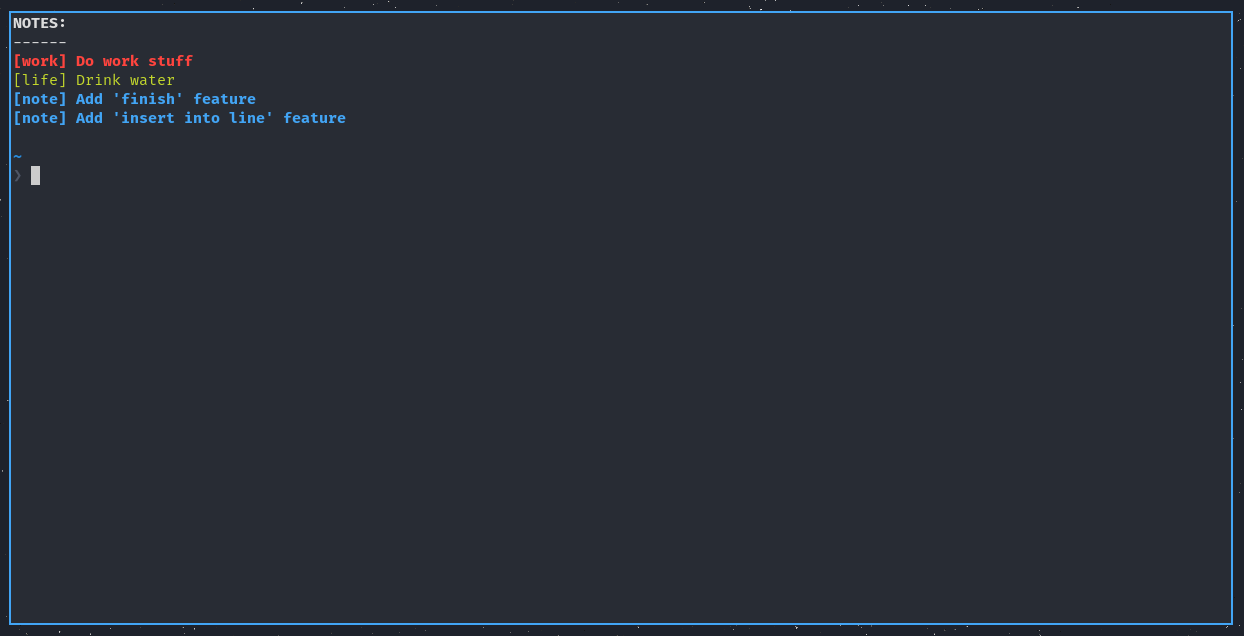
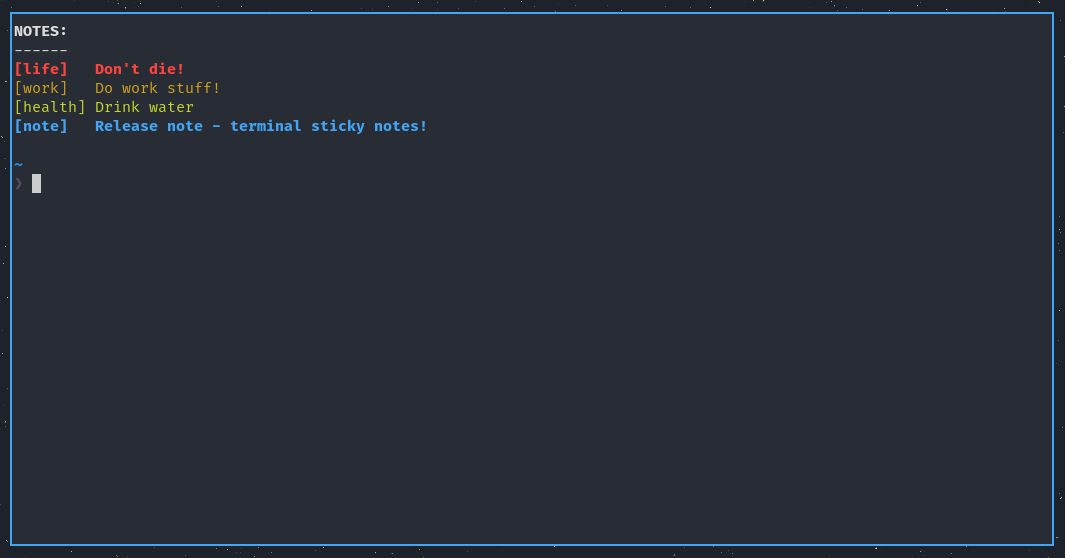
Added 'limit' flag, did some refactoring and added 'support' for 'projects'

Changed region(s): [[0.0, 0.0, 0.9915, 1.0]]

diff --git a/src/util.rs b/src/util.rs
@@ -4,8 +4,10 @@ use std::io::prelude::*;
 use std::path::PathBuf;
 
 use colored::*;
+use regex::Regex;
 
 use crate::note::*;
+use crate::arguments::*;
 
 fn get_notes_file() -> PathBuf {
     if let Some(mut dir) = dirs::config_dir() {
@@ -82,11 +84,11 @@ pub fn read_to_notes_str(unwanted_ids: &[usize]) -> Vec<String> {
     }
 }
 
-pub fn append_notes(notes: &str) {
+pub fn append_note(notes: &str) {
     let path = get_notes_file();
     match OpenOptions::new().append(true).create(true).open(path.to_str().unwrap()) {
         Ok(mut file) => {
-            if let Err(e) = write!(file, "{}\n", notes) {
+            if let Err(e) = writeln!(file, "{}", notes) {
                 eprintln!("Unable to write to notes.txt: {}", e);
             }
         }
@@ -94,7 +96,7 @@ pub fn append_notes(notes: &str) {
     }
 }
 
-pub fn edit_notes(unwanted_id: &usize, new_note: &[String], new_priority: &usize) {
+pub fn edit_note(unwanted_id: usize, new_note: &[String], new_priority: usize) {
     let path = get_notes_file();
     let mut all_notes = Vec::new();
     match OpenOptions::new().read(true).open(path.to_str().unwrap()) {
@@ -111,14 +113,14 @@ pub fn edit_notes(unwanted_id: &usize, new_note: &[String], new_priority: &usize
                      }
 
                      id += 1;
-                     if *unwanted_id == id {
+                     if unwanted_id == id {
                          if is_arg_set("-p", "--priority") {
-                             if new_note.len() != 0 {
+                             if !new_note.is_empty() {
                                 let new_note = format!("{}:{}", new_note.join(" "), new_priority);
                                 return Some(new_note);
                              }
                              let mut new_note = Note::from(note);
-                             new_note.priority = *new_priority;
+                             new_note.priority = new_priority;
                              return Some(format!("{}:{}", new_note.note, new_note.priority));
                          }
                          let note = Note::from(note);
@@ -133,6 +135,7 @@ pub fn edit_notes(unwanted_id: &usize, new_note: &[String], new_priority: &usize
     write_notes(&all_notes);
 }
 
+// Completely empties notes file
 pub fn clear_notes() {
     let path = get_notes_file();
     match OpenOptions::new().write(true).open(path.to_str().unwrap()) {
@@ -143,11 +146,13 @@ pub fn clear_notes() {
     }
 }
 
+// Writes specified notes to notes file and truncates the file if the number of notes being written
+// to the file is lower than the number of notes within the file.
 pub fn write_notes(notes: &[String]) {
     let path = get_notes_file();
     match OpenOptions::new().write(true).truncate(true).open(path.to_str().unwrap()) {
         Ok(mut file) => {
-            if let Err(e) = write!(file, "{}\n", notes.join("\n")) {
+            if let Err(e) = writeln!(file, "{}", notes.join("\n")) {
                 eprintln!("Unable to write to notes.txt: {}", e);
             }
         },
@@ -155,6 +160,7 @@ pub fn write_notes(notes: &[String]) {
     }
 }
 
+// Takes in a string (original) and colors and styles it, returning a ColoredString
 pub fn style_string(original: &str, color: &str, style: &str) -> colored::ColoredString {
     let colored = match color {
         "black" => original.color(colored::Color::Black),
@@ -182,4 +188,75 @@ pub fn style_string(original: &str, color: &str, style: &str) -> colored::Colore
         "underline" => colored.underline(),
         _ => colored,
     }
+}
+
+fn get_bracket_locations(notes: &[Note]) -> Vec<Option<usize>> {
+    let re = Regex::new(r"^\[[[:alpha:]\s\+]+\]").unwrap();
+    notes.iter()
+        .map(|note| {
+            match re.find(&note.note) {
+                Some(pos) => Some(pos.end()),
+                None => None,
+            }
+        })
+        .collect()
+}
+
+// Style all notes based by priority level 
+pub fn get_styled_notes(notes: &[Note], show_id: bool) -> Vec<String> {
+    let bracket_locations = get_bracket_locations(notes);
+    let max_bracket = match bracket_locations.iter().max() {
+        Some(option) => match option {
+            Some(val) => *val,
+            None => 0,
+        },
+        None => 0,
+    };
+
+    notes.iter()
+        .enumerate()
+        .map(|(index, note)| {
+            let location = match bracket_locations[index] {
+                Some(location) => location,
+                None => 0,
+            };
+            let num_of_spaces = max_bracket - location;
+
+            // Specify format of the note. 
+            // If the show_id flag is set we will format notes with the ID
+            // If the note matches the regex rule in 'get_bracket_locations()' we will format
+            // with an appropriate number of spaces
+            let note_format = if show_id && location != 0 {
+                format!("{}{}{}{}", note.id, note.note.get(..location).unwrap(),
+                                    " ".repeat(num_of_spaces),
+                                    note.note.get(location..).unwrap())
+            } else if show_id {
+                note.to_string()
+            } else if location != 0 { 
+                format!("{}{}{}", note.note.get(..location).unwrap(),
+                                  " ".repeat(num_of_spaces),
+                                  note.note.get(location..).unwrap())
+            } else {
+                note.note.clone()
+            };
+
+            match note.priority {
+                5 => format!("{}", style_string(&note_format,
+                                                &get_env_arg(EnvArgs::P5Color),
+                                                &get_env_arg(EnvArgs::P5Style))),
+                4 => format!("{}", style_string(&note_format,
+                                                &get_env_arg(EnvArgs::P4Color),
+                                                &get_env_arg(EnvArgs::P3Style))),
+                3 => format!("{}", style_string(&note_format,
+                                                &get_env_arg(EnvArgs::P3Color),
+                                                &get_env_arg(EnvArgs::P3Style))),
+                2 => format!("{}", style_string(&note_format,
+                                                &get_env_arg(EnvArgs::P2Color),
+                                                &get_env_arg(EnvArgs::P2Style))),
+                _ => format!("{}", style_string(&note_format,
+                                                &get_env_arg(EnvArgs::P1Color),
+                                                &get_env_arg(EnvArgs::P1Style))),
+            }
+        })
+        .collect()
 }

diff --git a/src/main.rs b/src/main.rs
@@ -2,62 +2,50 @@ use structopt::StructOpt;
 
 use note::util;
 use note::note::*;
-use note::arguments::{Args, Action, EnvArgs, get_env_arg};
+use note::arguments::*;
 
-fn edit(id: &usize, note: &[String], priority: &usize) {
-    util::edit_notes(id, note, priority);
+fn edit(id: usize, note: &[String], priority: usize) {
+    util::edit_note(id, note, priority);
 }
 
-fn list(show_id: bool, priority: bool) {
+fn list(show_id: bool, priority: bool, limit: Option<usize>) {
     let mut notes: Vec<Note> = util::read_to_notes(&[]);
-    if notes.len() == 0 {
+
+    // Print empty message if notes file is empty
+    if notes.is_empty() {
         print!("{}", util::style_string(&get_env_arg(EnvArgs::EmptyMessage),
                                         &get_env_arg(EnvArgs::EmptyMessageColor),
                                         &get_env_arg(EnvArgs::EmptyMessageStyle)));
         return;
     }
 
+    // Print welcome message
     print!("{}\n{}\n", util::style_string(&get_env_arg(EnvArgs::Message), 
                                           &get_env_arg(EnvArgs::MessageColor), 
                                           &get_env_arg(EnvArgs::MessageStyle)), 
-                       vec!["-"; get_env_arg(EnvArgs::Message).len()].join(""));
+                       "-".repeat(get_env_arg(EnvArgs::Message).len()));
+
+    // Sort by priority if priority flag is set
     if priority {
         notes.sort_by(|a, b| a.priority.cmp(&b.priority).reverse());
     }
 
-    let notes: Vec<String> = notes.into_iter()
-        .map(|note| {
-            let note_format = if show_id { note.to_string() } else { note.note };
-            match note.priority {
-                5 => format!("{}", util::style_string(&note_format,
-                                                      &get_env_arg(EnvArgs::P5Color),
-                                                      &get_env_arg(EnvArgs::P5Style))),
-                4 => format!("{}", util::style_string(&note_format,
-                                                      &get_env_arg(EnvArgs::P4Color),
-                                                      &get_env_arg(EnvArgs::P3Style))),
-                3 => format!("{}", util::style_string(&note_format,
-                                                      &get_env_arg(EnvArgs::P3Color),
-                                                      &get_env_arg(EnvArgs::P3Style))),
-                2 => format!("{}", util::style_string(&note_format,
-                                                      &get_env_arg(EnvArgs::P2Color),
-                                                      &get_env_arg(EnvArgs::P2Style))),
-                _ => format!("{}", util::style_string(&note_format,
-                                                      &get_env_arg(EnvArgs::P1Color),
-                                                      &get_env_arg(EnvArgs::P1Style))),
-            }
-        })
-        .collect();
-    println!("{}", notes.join("\n"));
+
+    let styled_notes = util::get_styled_notes(&notes, show_id);
+    match limit {
+        Some(limit) => println!("{}", styled_notes[..limit].join("\n")),
+        None => println!("{}", styled_notes.join("\n")),
+    };
 }
 
 fn stick(note: &[String], priority: usize) {
     let note = format!("{}:{}", note.join(" "), priority);
-    util::append_notes(&note);
+    util::append_note(&note);
 }
 
 fn toss(ids: &[usize], all: bool) {
     let notes = util::read_to_notes_str(ids);
-    if all || notes.len() == 0 {
+    if all || notes.is_empty() {
         println!("All notes tossed away!");
         util::clear_notes();
         return;
@@ -70,8 +58,8 @@ fn main() {
     let args = Args::from_args();
     
     match args.action {
-        Action::Edit{ id, note, priority } => edit(&id, &note, &priority),
-        Action::List{ show_id, priority } => list(show_id, priority),
+        Action::Edit{ id, note, priority } => edit(id, &note, priority),
+        Action::List{ show_id, priority, limit } => list(show_id, priority, limit),
         Action::Stick{ note, priority } => stick(&note, priority),
         Action::Toss{ ids, all } => toss(&ids, all)
     }

diff --git a/src/arguments.rs b/src/arguments.rs
@@ -30,7 +30,10 @@ pub enum Action {
         show_id: bool,
         /// List notes in order of priority
         #[structopt(short, long)]
-        priority: bool
+        priority: bool,
+        /// Limit list to <limit> many notes. (useful with -p flag)
+        #[structopt(short, long)]
+        limit: Option<usize>,
     },
     /// Stick a new note
     #[structopt(alias = "s")]
@@ -113,7 +116,7 @@ pub enum EnvArgs {
 
 pub fn get_env_arg(key: EnvArgs) -> String {
     match env::var(ENV_ARG_KEYS[key as usize]) {
-        Ok(val) => val.to_string(),
+        Ok(val) => val,
         _ => DEFAULT_ENV_VALUES[key as usize].to_string(),
     }
 }

diff --git a/src/note.rs b/src/note.rs
@@ -15,7 +15,7 @@ impl fmt::Display for Note {
 
 impl From<&str> for Note {
     fn from(line: &str) -> Self {
-        let mut values: Vec<&str> = line.split(":").collect();
+        let mut values: Vec<&str> = line.split(':').collect();
         if values.len() == 1 {
             return Note { id: 0, note: String::from(values[0]), priority: 1 }
         }
@@ -27,6 +27,6 @@ impl From<&str> for Note {
             None => 1,
         };
         let note = values.join(":");
-        Note { id: 0, note: String::from(note), priority }
+        Note { id: 0, note: note, priority }
     }
 }

diff --git a/README.md b/README.md
@@ -29,6 +29,9 @@ note list --show_id
 
 // To list notes in order of priority
 note list --priority
+
+// List <limit> many notes
+note list --limit <limit>
 ```
 
 Toss a note to the trash
